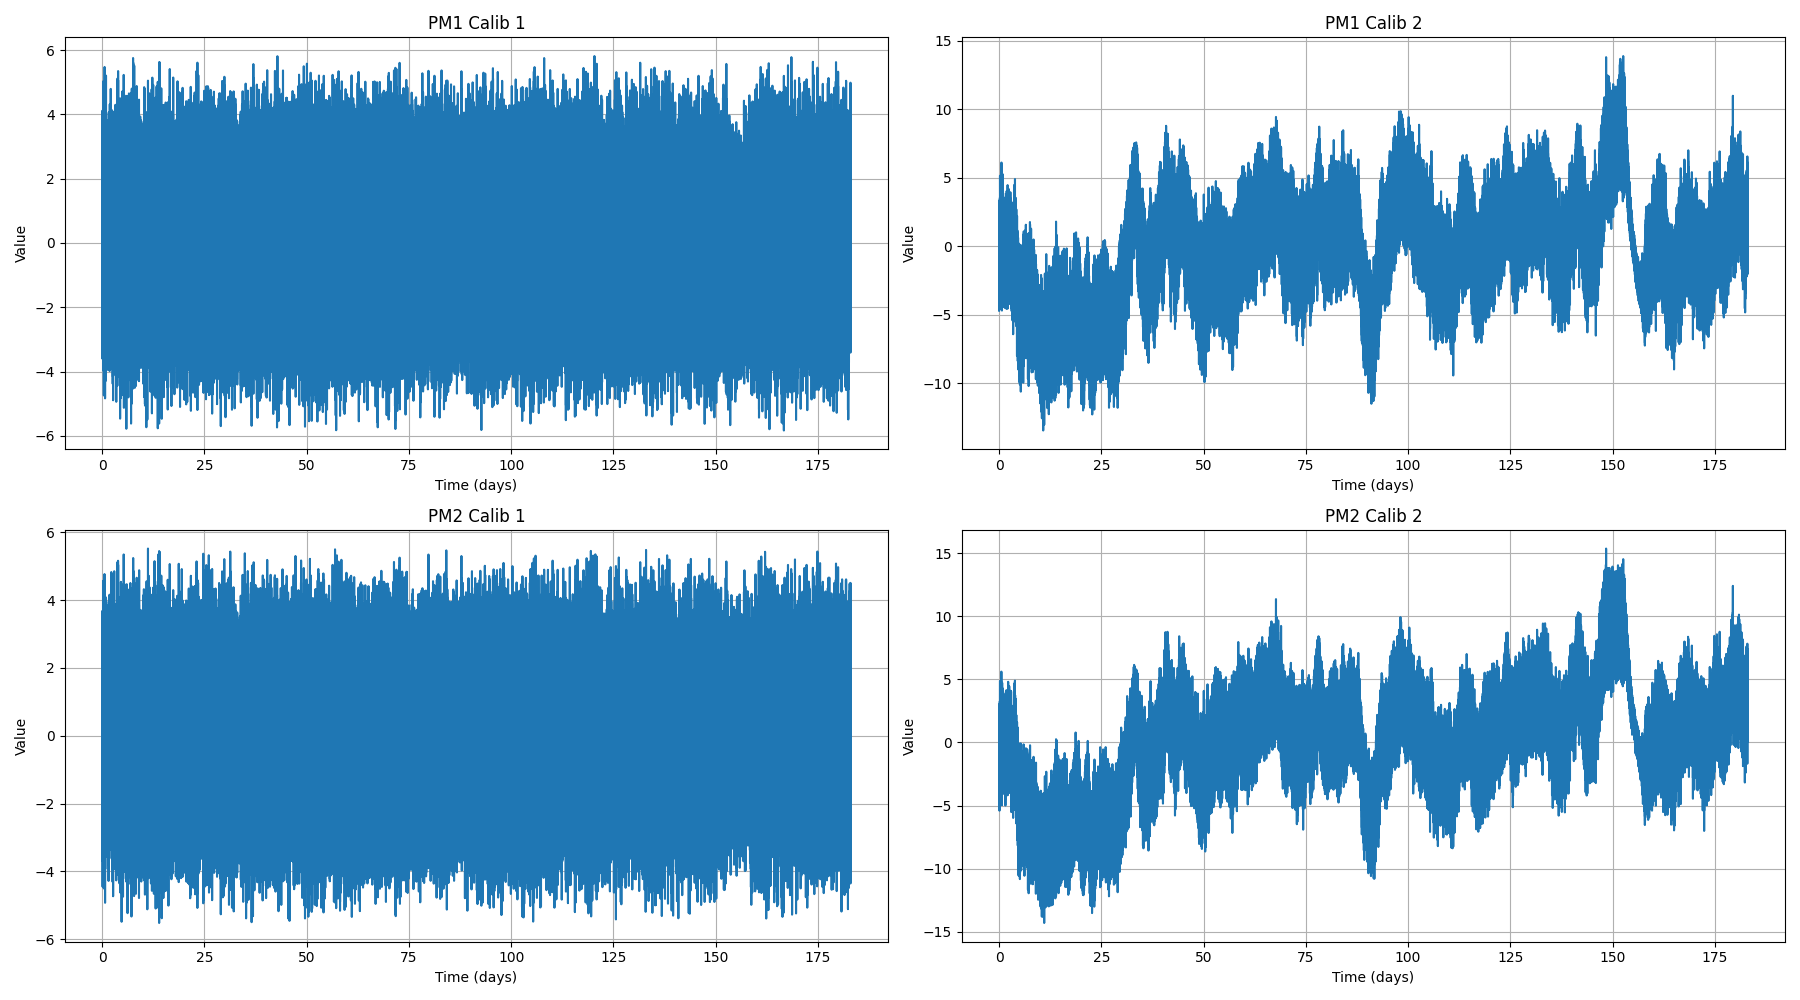
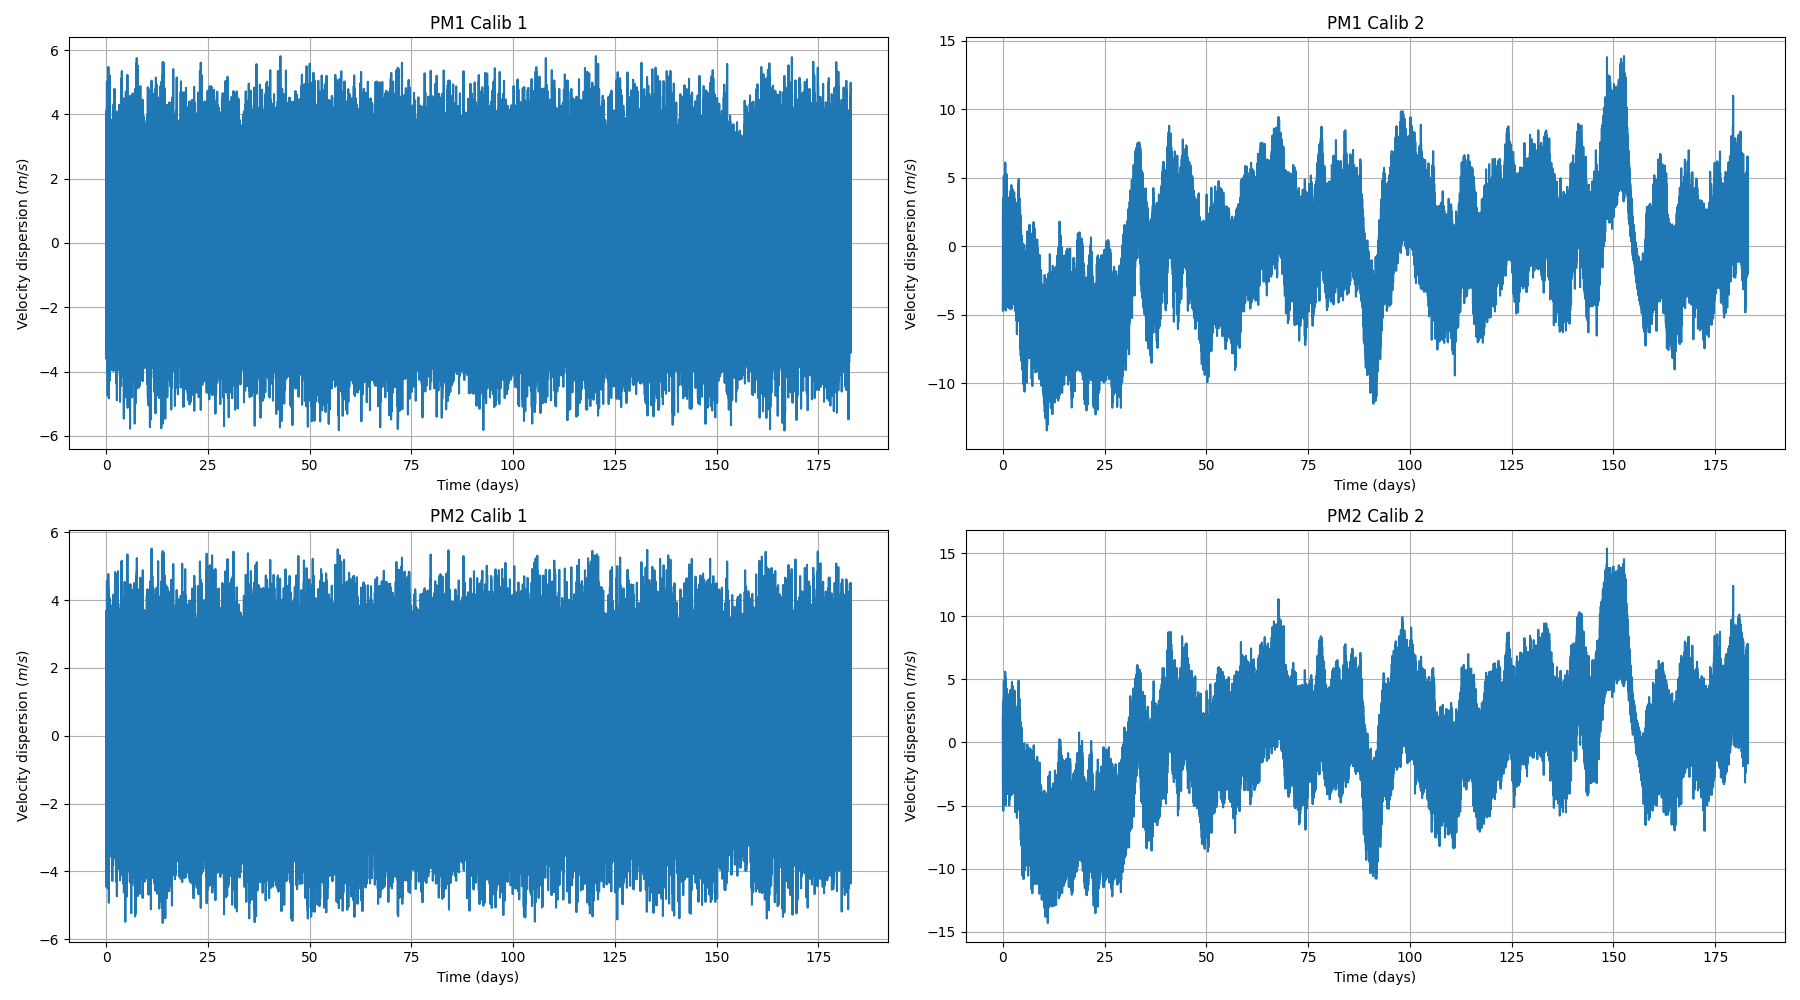
chore: relabeling y-axis

diff --git a/time_series.py b/time_series.py
@@ -53,28 +53,28 @@ plt.subplot(2, 2, 1)
 plt.plot(time_array_1_1, time_series_1_1)
 plt.title('PM1 Calib 1')
 plt.xlabel('Time (days)')
-plt.ylabel('Value')
+plt.ylabel('Velocity dispersion $(m/s)$')
 plt.grid()
 
 plt.subplot(2, 2, 2)
 plt.plot(time_array_1_2, time_series_1_2)
 plt.title('PM1 Calib 2')
 plt.xlabel('Time (days)')
-plt.ylabel('Value')
+plt.ylabel('Velocity dispersion $(m/s)$')
 plt.grid()
 
 plt.subplot(2, 2, 3)
 plt.plot(time_array_2_1, time_series_2_1)
 plt.title('PM2 Calib 1')
 plt.xlabel('Time (days)')
-plt.ylabel('Value')
+plt.ylabel('Velocity dispersion $(m/s)$')
 plt.grid()
 
 plt.subplot(2, 2, 4)
 plt.plot(time_array_2_2, time_series_2_2)
 plt.title('PM2 Calib 2')
 plt.xlabel('Time (days)')
-plt.ylabel('Value')
+plt.ylabel('Velocity dispersion $(m/s)$')
 plt.grid()
 
 plt.tight_layout()
